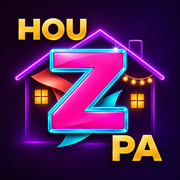
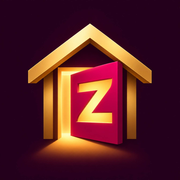
App-style redesign: onyx black + gold, bottom tab bar, big party cards
- Golden house + Z door app icon
- Top bar with logo and SOS, bottom tab bar with gold + button
- New home: big headline, filter chips, 'Is hafte' carousel, image-style cards
- New Profile tab (verification badges, sound on/off, logout)
- Create / My parties / Admin screens use the same app shell

Claude-Session: https://claude.ai/code/session_01XA95pbegfcq9xxSR6sn2JZ

diff --git a/index.html b/index.html
@@ -2,14 +2,14 @@
 <html lang="en">
 <head>
 <meta charset="utf-8">
-<meta name="viewport" content="width=device-width, initial-scale=1">
+<meta name="viewport" content="width=device-width, initial-scale=1, viewport-fit=cover">
 <title>HOUZPA · Who's party? Ma houz party.</title>
-<meta name="theme-color" content="#15112B">
+<meta name="theme-color" content="#0A0A0C">
 <link rel="manifest" href="/manifest.json">
 <link rel="icon" type="image/png" href="/icon-192.png">
 <link rel="apple-touch-icon" href="/apple-touch-icon.png">
 <link rel="preconnect" href="https://fonts.googleapis.com">
-<link href="https://fonts.googleapis.com/css2?family=Space+Grotesk:wght@500;700&family=Inter:wght@400;500;600&display=swap" rel="stylesheet">
+<link href="https://fonts.googleapis.com/css2?family=Unbounded:wght@600;800&family=Space+Grotesk:wght@500;700&family=Inter:wght@400;500;600&display=swap" rel="stylesheet">
 <style>
 :root{--bg:#15112B;--card:#1F1A3D;--line:#332C5E;--txt:#F4F1FF;--mut:#B9B2DA;--amber:#FFB547;--pink:#FF4F9A;--cyan:#3DE8FF;--ok:#4ADE80;--warn:#FBBF24}
 *{box-sizing:border-box;margin:0;padding:0}
@@ -113,6 +113,108 @@ textarea{min-height:80px;resize:vertical}
 .confetti{position:fixed;top:-20px;width:9px;height:14px;z-index:55;pointer-events:none;animation:fall linear forwards}
 @keyframes fall{to{transform:translate(var(--dx),110vh) rotate(var(--r))}}
 @media (prefers-reduced-motion:reduce){*,*::before{animation:none!important;transition:none!important}.party{opacity:1}#onair{opacity:1}}
+/* ================= HOUZPA APP LOOK: onyx black + gold + magenta ================= */
+:root{--bg:#0A0A0C;--card:#141418;--card2:#1B1B21;--line:#2A2A31;--txt:#F7F3EA;--mut:#A39E93;
+  --amber:#F2C46D;--gold1:#F8DC9B;--gold2:#C8902E;--pink:#E5195E;--ok:#4ADE80;--warn:#F2C46D}
+body{background:var(--bg)}
+body::before{background:
+  radial-gradient(circle at 15% 10%,rgba(229,25,94,.16),transparent 35%),
+  radial-gradient(circle at 90% 30%,rgba(242,196,109,.12),transparent 38%)}
+.btn{background:linear-gradient(135deg,var(--pink),#FF4D7E);box-shadow:0 6px 20px rgba(229,25,94,.3)}
+.btn.gold,#goParty{background:linear-gradient(135deg,var(--gold1),var(--gold2));color:#1A1206;box-shadow:0 6px 22px rgba(242,196,109,.3)}
+.card{background:linear-gradient(180deg,var(--card2),var(--card));border-color:var(--line);border-radius:20px}
+.card h3{font-family:'Unbounded',sans-serif;font-size:14px;letter-spacing:.3px;color:var(--gold1)}
+input,select,textarea{background:#0F0F13;border-color:var(--line)}
+input:focus,select:focus,textarea:focus{border-color:var(--amber)}
+.pick.on{background:linear-gradient(135deg,var(--gold1),var(--gold2));border-color:transparent;color:#1A1206}
+.okbox{background:rgba(242,196,109,.08);border-color:rgba(242,196,109,.35);color:var(--gold1)}
+.banner{background:rgba(229,25,94,.1);border-color:rgba(229,25,94,.4);color:#FFC2D6;border-radius:14px}
+.logo .h{color:var(--amber)}.logo .p{color:var(--pink)}
+h2{font-family:'Unbounded',sans-serif;font-size:17px}
+
+/* shell */
+.shell{min-height:100vh}
+.topbar{position:sticky;top:0;z-index:20;display:flex;align-items:center;justify-content:space-between;
+  padding:calc(10px + env(safe-area-inset-top)) 16px 10px;background:rgba(10,10,12,.78);backdrop-filter:blur(14px);border-bottom:1px solid rgba(255,255,255,.05);max-width:520px;margin:0 auto}
+.brand{display:flex;align-items:center;gap:9px}
+.brand img{width:34px;height:34px;border-radius:10px;box-shadow:0 0 14px rgba(242,196,109,.35)}
+.brand .word{font-family:'Unbounded',sans-serif;font-size:18px;letter-spacing:.5px}
+.brand .h{color:var(--amber)}.brand .z{color:#fff}.brand .p{color:var(--pink)}
+.sos-pill{background:#E11D48;color:#fff;font:800 12px 'Unbounded',sans-serif;letter-spacing:1px;text-decoration:none;border-radius:99px;padding:8px 13px;box-shadow:0 0 0 3px rgba(225,29,72,.2)}
+main.page{max-width:520px;padding:6px 16px calc(110px + env(safe-area-inset-bottom));min-height:auto}
+.tabbar{position:fixed;left:50%;transform:translateX(-50%);bottom:0;z-index:30;width:100%;max-width:520px;display:grid;grid-template-columns:repeat(5,1fr);align-items:end;
+  padding:8px 6px calc(10px + env(safe-area-inset-bottom));background:rgba(14,14,17,.92);backdrop-filter:blur(16px);border-top:1px solid rgba(255,255,255,.06)}
+.tab{background:none;border:0;color:#7D786E;display:flex;flex-direction:column;align-items:center;gap:3px;font:600 10.5px Inter,sans-serif;cursor:pointer;padding:4px 0;min-height:48px;justify-content:center}
+.tab svg,.fab svg,.city svg,.me svg{width:24px;height:24px;fill:none;stroke:currentColor;stroke-width:1.8;stroke-linecap:round;stroke-linejoin:round}
+.tab.on{color:var(--amber)}
+.tab.on svg{filter:drop-shadow(0 0 6px rgba(242,196,109,.6))}
+.ghosttab{pointer-events:none}
+.fab{justify-self:center;width:60px;height:60px;margin-top:-30px;border-radius:20px;border:3px solid var(--bg);cursor:pointer;color:#1A1206;
+  background:linear-gradient(135deg,var(--gold1),var(--gold2));box-shadow:0 8px 24px rgba(242,196,109,.45);display:grid;place-items:center;transition:transform .15s}
+.fab svg{width:28px;height:28px;stroke-width:2.6}
+.fab:active{transform:scale(.9) rotate(90deg)}
+.fab.locked{filter:grayscale(.6) brightness(.7)}
+#toast{position:fixed;left:50%;bottom:110px;transform:translate(-50%,20px);background:#F7F3EA;color:#111;padding:11px 16px;border-radius:14px;font:600 13px Inter,sans-serif;opacity:0;transition:.3s;z-index:70;width:max-content;max-width:90vw;text-align:center;pointer-events:none}
+#toast.show{opacity:1;transform:translate(-50%,0)}
+
+/* home */
+.hero{padding:14px 2px 6px}
+.eyebrow{color:var(--mut);font-size:14px}
+.hero h1{font-family:'Unbounded',sans-serif;font-weight:800;font-size:32px;line-height:1.08;margin:6px 0 12px;letter-spacing:-.5px}
+.gold{background:linear-gradient(135deg,var(--gold1),var(--gold2));-webkit-background-clip:text;background-clip:text;color:transparent}
+.city{display:inline-flex;align-items:center;gap:6px;background:var(--card2);border:1px solid var(--line);border-radius:99px;padding:7px 13px 7px 9px;font-size:13px;font-weight:600;margin-bottom:12px}
+.city svg{width:16px;height:16px;color:var(--pink)}
+.chiprow{display:flex;gap:8px;overflow-x:auto;padding:4px 2px 12px;margin:0 -16px;padding-left:16px;scrollbar-width:none}
+.chiprow::-webkit-scrollbar{display:none}
+.fchip{flex:none;background:var(--card2);border:1px solid var(--line);color:var(--txt);border-radius:99px;padding:9px 15px;font:600 13px Inter,sans-serif;cursor:pointer}
+.fchip.on{background:var(--txt);color:#0A0A0C;border-color:var(--txt)}
+.sec{display:flex;align-items:center;gap:8px;margin:14px 0 10px}
+.count{font:700 11px Inter,sans-serif;background:var(--card2);border:1px solid var(--line);color:var(--mut);border-radius:99px;padding:2px 8px}
+.carousel{display:flex;gap:12px;overflow-x:auto;margin:0 -16px;padding:0 16px 6px;scroll-snap-type:x mandatory;scrollbar-width:none}
+.carousel::-webkit-scrollbar{display:none}
+.pcard{background:var(--card);border:1px solid var(--line);border-radius:22px;overflow:hidden;margin-bottom:14px;opacity:0;animation:rise .45s ease-out forwards;transition:transform .15s}
+.pcard:active{transform:scale(.98)}
+.pcard.big{flex:none;width:80%;scroll-snap-align:start;margin-bottom:0}
+.pcover{position:relative;height:190px;display:flex;align-items:flex-end}
+.pcard.big .pcover{height:250px}
+.emo{position:absolute;right:18px;top:40%;transform:translateY(-50%);font-size:64px;filter:drop-shadow(0 6px 18px rgba(0,0,0,.5))}
+.shade{position:absolute;inset:0;background:linear-gradient(180deg,transparent 35%,rgba(5,5,7,.92))}
+.datebox{position:absolute;left:12px;top:12px;z-index:2;background:rgba(10,10,12,.7);backdrop-filter:blur(8px);border:1px solid rgba(242,196,109,.4);border-radius:12px;padding:5px 9px;text-align:center;line-height:1}
+.datebox b{display:block;font:800 18px 'Unbounded',sans-serif;color:var(--gold1)}
+.datebox span{font:700 9.5px Inter,sans-serif;letter-spacing:1px;color:var(--mut)}
+.hot{position:absolute;right:12px;top:12px;z-index:2;background:var(--pink);color:#fff;font:700 11px Inter,sans-serif;border-radius:99px;padding:5px 10px}
+.ptitle{position:relative;z-index:2;padding:14px}
+.ptitle h3{font:800 17px/1.2 'Unbounded',sans-serif;letter-spacing:-.2px}
+.ptitle p{color:#D9D3C7;font-size:13px;margin-top:4px}
+.pfoot{display:flex;justify-content:space-between;align-items:center;gap:8px;padding:11px 14px;font-size:13px;color:var(--mut)}
+.pfoot em{font-style:normal}.alc{color:var(--amber)}
+.from{color:var(--txt)}.from b{font:800 16px 'Unbounded',sans-serif;color:var(--gold1)}
+.skel{height:200px;border-radius:22px;margin-bottom:14px;background:linear-gradient(90deg,var(--card) 25%,var(--card2) 50%,var(--card) 75%);background-size:200% 100%;animation:sk 1.2s linear infinite}
+@keyframes sk{to{background-position:-200% 0}}
+.emptybox{text-align:center;background:linear-gradient(180deg,var(--card2),var(--card));border:1px dashed rgba(242,196,109,.35);border-radius:22px;padding:30px 20px;display:flex;flex-direction:column;gap:10px;align-items:center;margin-top:6px}
+.emptybox .big{font-size:56px;animation:zbeat 1.6s ease-in-out infinite}
+.emptybox h3{font:800 16px 'Unbounded',sans-serif}
+
+/* old list cards (Meri parties) */
+.party{background:var(--card);border-color:var(--line);border-radius:20px}
+.st-published{background:rgba(74,222,128,.14);color:#BBF7D0}
+.st-pending_review{background:rgba(242,196,109,.15);color:var(--gold1)}
+
+/* profile */
+.me{text-align:center;padding:22px 0 10px;display:flex;flex-direction:column;align-items:center;gap:6px}
+.avatar{width:86px;height:86px;border-radius:28px;display:grid;place-items:center;font:800 30px 'Unbounded',sans-serif;color:#1A1206;background:linear-gradient(135deg,var(--gold1),var(--gold2));box-shadow:0 10px 30px rgba(242,196,109,.35);margin-bottom:6px}
+.me h1{font:800 22px 'Unbounded',sans-serif}
+.me .small svg{width:14px;height:14px;vertical-align:-2px}
+.badges{display:flex;gap:6px;flex-wrap:wrap;justify-content:center;margin-top:6px}
+.badge{font:700 11.5px Inter,sans-serif;border-radius:99px;padding:5px 11px;background:var(--card2);border:1px solid var(--line)}
+.badge.ok{color:#BBF7D0;border-color:rgba(74,222,128,.4)}.badge.warn{color:#FFC2D6;border-color:rgba(229,25,94,.4)}.badge.gold{color:var(--gold1);border-color:rgba(242,196,109,.5)}
+.list{background:var(--card);border:1px solid var(--line);border-radius:20px;overflow:hidden;margin:14px 0}
+.li{width:100%;display:flex;justify-content:space-between;align-items:center;background:none;border:0;border-bottom:1px solid var(--line);color:var(--txt);font:500 15px Inter,sans-serif;padding:16px;cursor:pointer;text-decoration:none;text-align:left}
+.li:last-child{border:0}.li.danger{color:#FF8A8A}
+.center-t{text-align:center}
+.pick{background:#0F0F13;border-color:var(--line)}
+.carousel{scroll-padding-left:16px}
+.carousel::after{content:"";flex:0 0 4px}
 </style>
 </head>
 <body>
@@ -135,7 +237,6 @@ textarea{min-height:80px;resize:vertical}
 <div id="flash"></div>
 
 <div id="app"><main class="center"><div class="logo"><span class="h">HOU</span><span class="z">Z</span><span class="p">PA</span></div><p class="tag">Loading…</p></main></div>
-<a class="sos" href="tel:112" aria-label="Emergency SOS, call 112">SOS</a>
 
 <script>
 // ===== PARTY MODE: original stadium-style intro, made in code (no copyrighted music) =====
@@ -410,54 +511,154 @@ function viewProfile() {
   };
 }
 
-// ---------- 3. HOME FEED ----------
+// ---------- APP SHELL: top bar + neeche tab bar (asli app jaisa) ----------
+const ICON = {
+  home: '<svg viewBox="0 0 24 24"><path d="M3 11.5 12 4l9 7.5"/><path d="M5.5 10v9.5h13V10"/><path d="M10 19.5v-5h4v5"/></svg>',
+  ticket: '<svg viewBox="0 0 24 24"><path d="M3 8.5V6h18v2.5a2.5 2.5 0 0 0 0 5V18H3v-4.5a2.5 2.5 0 0 0 0-5Z"/><path d="M14 6v12" stroke-dasharray="2 2"/></svg>',
+  plus: '<svg viewBox="0 0 24 24"><path d="M12 5v14M5 12h14"/></svg>',
+  shield: '<svg viewBox="0 0 24 24"><path d="M12 3 4.5 6v5.5c0 4.5 3.2 8 7.5 9.5 4.3-1.5 7.5-5 7.5-9.5V6Z"/><path d="m9 12 2 2 4-4"/></svg>',
+  user: '<svg viewBox="0 0 24 24"><circle cx="12" cy="8.5" r="3.8"/><path d="M4.5 20c1.2-3.6 4.1-5.5 7.5-5.5s6.3 1.9 7.5 5.5"/></svg>',
+  pin: '<svg viewBox="0 0 24 24"><path d="M12 21s-6.5-6.2-6.5-11a6.5 6.5 0 0 1 13 0c0 4.8-6.5 11-6.5 11Z"/><circle cx="12" cy="10" r="2.3"/></svg>'
+};
+const brand = () => `<div class="brand"><img src="/icon-192.png" alt=""><span class="word"><b class="h">HOU</b><b class="z">Z</b><b class="p">PA</b></span></div>`;
+
+function frame(tab, profile, inner) {
+  const t = (id, icon, label) => `<button class="tab ${tab === id ? 'on' : ''}" data-tab="${id}" type="button">${ICON[icon]}<span>${label}</span></button>`;
+  return `<div class="shell">
+    <div class="topbar">${brand()}<a class="sos-pill" href="tel:112" aria-label="Emergency SOS, call 112">SOS</a></div>
+    <main class="page">${inner}</main>
+    <nav class="tabbar" aria-label="App">
+      ${t('home', 'home', 'Home')}
+      ${t('mine', 'ticket', 'Meri parties')}
+      <button class="fab ${profile.is_verified ? '' : 'locked'}" data-tab="new" type="button" aria-label="Party banao">${ICON.plus}</button>
+      ${profile.is_admin ? t('admin', 'shield', 'Admin') : '<span class="tab ghosttab"></span>'}
+      ${t('me', 'user', 'Profile')}
+    </nav>
+  </div>`;
+}
+function bindNav(profile) {
+  app.querySelectorAll('[data-tab]').forEach(b => b.onclick = () => {
+    const go = b.dataset.tab;
+    if (navigator.vibrate) navigator.vibrate(8);
+    if (go === 'home') viewHome(profile);
+    else if (go === 'mine') viewMine(profile);
+    else if (go === 'admin') viewAdmin(profile);
+    else if (go === 'me') viewMe(profile);
+    else if (go === 'new') {
+      if (profile.is_verified) viewCreate(profile);
+      else toast('Party host karne ke liye pehle ID verification zaroori hai 🔒');
+    }
+  });
+}
+function toast(t) {
+  let el = document.getElementById('toast');
+  if (!el) { el = document.createElement('div'); el.id = 'toast'; document.body.appendChild(el); }
+  el.textContent = t; el.classList.add('show');
+  clearTimeout(el._t); el._t = setTimeout(() => el.classList.remove('show'), 2600);
+}
+
+// Har venue ka apna rang aur emoji (jab tak host photo upload nahi karta)
+const COVER = {
+  Rooftop: ['#2B1055', '#E5195E', '🌃'], Apartment: ['#1B1B2F', '#F2C46D', '🏠'], Villa: ['#0F2027', '#2C5364', '🏡'],
+  Farmhouse: ['#3A1C00', '#E8862A', '🔥'], Garden: ['#0B3D2E', '#7BD389', '🌿'], 'Pool property': ['#003B5C', '#2EC4F1', '🏊'],
+  'Private lounge': ['#1A0B2E', '#B4458F', '🍸']
+};
+const cover = p => { const [a, b, e] = COVER[p.venue_type] || ['#1A1A1F', '#F2C46D', '🎉']; return { bg: `radial-gradient(circle at 80% 15%,${b}cc,transparent 55%),linear-gradient(160deg,${a},#0A0A0C)`, e }; };
+const dayBox = d => { const x = new Date(d); return `<div class="datebox"><b>${x.getDate()}</b><span>${x.toLocaleString('en-IN', { month: 'short' }).toUpperCase()}</span></div>`; };
+
+// ---------- 3. HOME ----------
 async function viewHome(profile) {
-  const city = profile.city || 'Lucknow';
-  app.innerHTML = `<main>
-    <header>${logo('sm')}<div class="hbtns">
-      <button class="icon-btn" id="snd" type="button" aria-label="Party sound">🎉</button>
-      <button class="btn ghost" id="out" type="button">Logout</button></div></header>
-    ${profile.is_verified ? '' : '<div class="banner">Aapka ID verification baaki hai. Tab tak parties dekh sakte ho, pass nahi le sakte aur party host nahi kar sakte.</div>'}
-    <div class="nav">
-      ${profile.is_verified ? '<button class="btn" id="new" type="button">＋ Party banao</button>' : ''}
-      <button class="btn ghost" id="mine" type="button">Meri parties</button>
-      ${profile.is_admin ? '<button class="btn ghost" id="adm" type="button">Admin</button>' : ''}
-    </div>
-    <p class="small">Hi ${esc(profile.full_name.split(' ')[0])} 👋</p>
-    <h2>${esc(city)} mein aane wali parties</h2>
-    <div id="feed"><p class="empty">Parties dhoondh rahe hain…</p></div>
-  </main>`;
-  document.getElementById('out').onclick = async () => { await sb.auth.signOut(); };
-  document.getElementById('snd').onclick = () => { if (!window.houzpaMuted()) window.houzpaPartySound(); };
-  const on = (id, fn) => { const el = document.getElementById(id); if (el) el.onclick = fn; };
-  on('new', () => viewCreate(profile));
-  on('mine', () => viewMine(profile));
-  on('adm', () => viewAdmin(profile));
+  const city = profile.city || 'Lucknow', first = esc(profile.full_name.split(' ')[0]);
+  const hour = new Date().getHours(), hello = hour < 12 ? 'Good morning' : hour < 17 ? 'Hey' : 'Good evening';
+  const FILTERS = ['Sab', 'Aaj raat', 'Weekend', 'Rooftop', 'Pool', 'Live music', '₹800 se kam'];
+  app.innerHTML = frame('home', profile, `
+    <section class="hero">
+      <p class="eyebrow">${hello}, ${first} 👋</p>
+      <h1>Aaj raat<br><span class="gold">kahan party?</span></h1>
+      <div class="city">${ICON.pin}<span>${esc(city)}</span></div>
+    </section>
+    ${profile.is_verified ? '' : '<div class="banner">🔒 ID verification baaki hai. Tab tak parties dekh sakte ho, pass nahi le sakte aur host nahi kar sakte.</div>'}
+    <div class="chiprow" id="filters">${FILTERS.map((f, i) => `<button class="fchip ${i ? '' : 'on'}" type="button">${f}</button>`).join('')}</div>
+    <div id="feed"><div class="skel"></div><div class="skel"></div></div>`);
+  bindNav(profile);
 
   const { data, error } = await sb.from('parties')
-    .select('id,name,area,city,venue_type,starts_at,alcohol,cover_url,ticket_tiers(price_inr)')
+    .select('id,name,area,city,venue_type,starts_at,alcohol,cover_url,has_pool,music,safe_capacity,ticket_tiers(price_inr,quantity,sold)')
     .eq('city', city).eq('status', 'published').eq('visibility', 'public')
     .gte('starts_at', new Date().toISOString())
     .order('starts_at');
   const feed = document.getElementById('feed');
   if (error) { feed.innerHTML = `<p class="empty err">Error: ${esc(error.message)}</p>`; return; }
-  if (!data.length) { feed.innerHTML = `<p class="empty">Abhi ${esc(city)} mein koi party listed nahi hai.<br>Jald aa rahi hain! 🎉</p>`; return; }
 
-  feed.innerHTML = data.map((p, i) => {
-    const prices = (p.ticket_tiers || []).map(t => t.price_inr);
-    const from = prices.length ? '₹' + Math.min(...prices) : '';
-    const when = new Date(p.starts_at).toLocaleString('en-IN', { weekday: 'short', day: 'numeric', month: 'short', hour: 'numeric', minute: '2-digit' });
-    const alc = p.alcohol && p.alcohol !== 'No alcohol';
-    return `<article class="party" style="animation-delay:${i * 90}ms">
-      <div class="cover">${p.cover_url ? `<img src="${esc(p.cover_url)}" alt="">` : ''}</div>
-      <div class="body">
-        <h3>${esc(p.name)}</h3>
-        <p class="small">${esc(p.area)} · ${esc(p.venue_type)}</p>
-        <div class="row"><span class="small">${esc(when)}</span><span class="price">${from ? 'From ' + from : ''}</span></div>
-        <div class="row">${alc ? '<span class="chip alc">Licensed · 21+</span>' : '<span class="chip">No alcohol</span>'}</div>
+  const draw = list => {
+    if (!list.length) {
+      feed.innerHTML = `<div class="emptybox"><div class="big">🪩</div><h3>${data.length ? 'Is filter mein koi party nahi' : `${esc(city)} mein abhi koi party nahi`}</h3>
+        <p class="small">${profile.is_verified ? 'Pehli party aap host karo aur shehar ko jagao!' : 'Jald aa rahi hain. Notification ke liye bane raho!'}</p>
+        ${profile.is_verified ? '<button class="btn gold" data-tab="new" type="button">＋ Party host karo</button>' : ''}</div>`;
+      bindNav(profile); return;
+    }
+    const card = (p, i, big) => {
+      const prices = (p.ticket_tiers || []).map(t => t.price_inr), left = (p.ticket_tiers || []).reduce((a, t) => a + t.quantity - t.sold, 0);
+      const c = cover(p), alc = p.alcohol && p.alcohol !== 'No alcohol';
+      const time = new Date(p.starts_at).toLocaleString('en-IN', { weekday: 'short', hour: 'numeric', minute: '2-digit' });
+      return `<article class="pcard ${big ? 'big' : ''}" style="animation-delay:${i * 80}ms">
+        <div class="pcover" style="background:${p.cover_url ? `url('${esc(p.cover_url)}') center/cover` : c.bg}">
+          ${p.cover_url ? '' : `<span class="emo">${c.e}</span>`}
+          ${dayBox(p.starts_at)}
+          ${left > 0 && left <= 10 ? `<span class="hot">🔥 ${left} passes bache</span>` : ''}
+          <div class="shade"></div>
+          <div class="ptitle"><h3>${esc(p.name)}</h3><p>${esc(p.area)} · ${esc(p.venue_type)}</p></div>
+        </div>
+        <div class="pfoot"><span>${esc(time)} · ${alc ? '<em class="alc">Licensed 21+</em>' : 'No alcohol'}</span>
+          <span class="from">${prices.length ? 'From <b>₹' + Math.min(...prices) + '</b>' : ''}</span></div>
+      </article>`;
+    };
+    const soon = list.filter(p => new Date(p.starts_at) - new Date() < 7 * 864e5);
+    feed.innerHTML = (soon.length ? `<h2 class="sec">🔥 Is hafte</h2><div class="carousel">${soon.map((p, i) => card(p, i, true)).join('')}</div>` : '')
+      + `<h2 class="sec">Sab parties <span class="count">${list.length}</span></h2>${list.map((p, i) => card(p, i)).join('')}`;
+  };
+  const test = {
+    'Sab': () => true,
+    'Aaj raat': p => new Date(p.starts_at).toDateString() === new Date().toDateString(),
+    'Weekend': p => [0, 5, 6].includes(new Date(p.starts_at).getDay()),
+    'Rooftop': p => p.venue_type === 'Rooftop',
+    'Pool': p => p.has_pool,
+    'Live music': p => (p.music || []).includes('Live music'),
+    '₹800 se kam': p => (p.ticket_tiers || []).some(t => t.price_inr < 800)
+  };
+  document.getElementById('filters').onclick = e => {
+    const b = e.target.closest('.fchip'); if (!b) return;
+    document.querySelectorAll('.fchip').forEach(x => x.classList.toggle('on', x === b));
+    draw(data.filter(test[b.textContent]));
+  };
+  draw(data);
+}
+
+// ---------- PROFILE TAB ----------
+function viewMe(profile) {
+  const initials = profile.full_name.split(' ').map(w => w[0]).slice(0, 2).join('').toUpperCase();
+  const muted = window.houzpaMuted && window.houzpaMuted();
+  app.innerHTML = frame('me', profile, `
+    <section class="me">
+      <div class="avatar">${esc(initials)}</div>
+      <h1>${esc(profile.full_name)}</h1>
+      <p class="small">${ICON.pin} ${esc(profile.city || '')}</p>
+      <div class="badges">
+        ${profile.is_verified ? '<span class="badge ok">✓ ID verified</span>' : '<span class="badge warn">ID verification baaki</span>'}
+        ${profile.is_host ? '<span class="badge">Host</span>' : ''}${profile.is_admin ? '<span class="badge gold">Admin</span>' : ''}
       </div>
-    </article>`;
-  }).join('');
+    </section>
+    <div class="list">
+      <button class="li" id="snd" type="button"><span>🔊 Party sound sunao</span><span>›</span></button>
+      <button class="li" id="mute" type="button"><span>${muted ? '🔇 Intro sound band hai' : '🔈 Intro sound on hai'}</span><span class="small">${muted ? 'On karo' : 'Band karo'}</span></button>
+      <a class="li" href="tel:112"><span>🆘 Emergency: 112</span><span>›</span></a>
+      <button class="li danger" id="out" type="button"><span>Logout</span><span>›</span></button>
+    </div>
+    <p class="small center-t">HOUZPA · Who's party? Ma houz party.</p>`);
+  bindNav(profile);
+  document.getElementById('out').onclick = async () => { await sb.auth.signOut(); };
+  document.getElementById('snd').onclick = () => window.houzpaPartySound && window.houzpaPartySound();
+  document.getElementById('mute').onclick = () => { window.houzpaSetMuted(!muted); viewMe(profile); };
 }
 
 // ---------- 4. PARTY BANAO (host) ----------
@@ -488,8 +689,7 @@ function viewCreate(profile) {
     `<button type="button" class="pick ${(single ? s[key] === o : s[key].includes(o)) ? 'on' : ''}" data-v="${esc(o)}">${esc(o)}</button>`).join('')}</div>`;
   const num = (k, lbl) => `<div><label for="c_${k}">${lbl}</label><input id="c_${k}" type="number" min="0" value="${s.cap[k]}" inputmode="numeric"></div>`;
 
-  app.innerHTML = `<main>
-    <header>${logo('sm')}<button class="btn ghost" id="back" type="button">← Wapas</button></header>
+  app.innerHTML = frame('new', profile, `
     <h2>Party banao 🎉</h2>
     <form id="f" style="display:flex;flex-direction:column;gap:14px">
       <section class="card">
@@ -557,10 +757,10 @@ function viewCreate(profile) {
         <p class="msg" id="msg"></p>
       </section>
     </form>
-  </main>`;
+  `);
+  bindNav(profile);
 
   const $ = id => document.getElementById(id);
-  $('back').onclick = () => viewHome(profile);
 
   // chips
   app.querySelectorAll('.chips[data-key]').forEach(box => {
@@ -659,12 +859,11 @@ const STATUS = { draft: 'Draft', pending_review: 'Approval baaki', published: 'L
 const when = d => new Date(d).toLocaleString('en-IN', { weekday: 'short', day: 'numeric', month: 'short', hour: 'numeric', minute: '2-digit' });
 
 async function viewMine(profile, note = '') {
-  app.innerHTML = `<main>
-    <header>${logo('sm')}<button class="btn ghost" id="back" type="button">← Wapas</button></header>
+  app.innerHTML = frame('mine', profile, `
     ${note ? `<div class="okbox" style="margin-bottom:14px">${esc(note)}</div>` : ''}
     <h2>Meri parties</h2><div id="list"><p class="empty">Load ho raha hai…</p></div>
-  </main>`;
-  document.getElementById('back').onclick = () => viewHome(profile);
+  `);
+  bindNav(profile);
   const { data, error } = await sb.from('parties')
     .select('id,name,area,city,starts_at,status,safe_capacity,ticket_tiers(name,price_inr,quantity,sold)')
     .eq('host_id', session.user.id).order('starts_at', { ascending: false });
@@ -684,11 +883,10 @@ async function viewMine(profile, note = '') {
 // ---------- 6. ADMIN: parties approve karo ----------
 async function viewAdmin(profile) {
   if (!profile.is_admin) return viewHome(profile);
-  app.innerHTML = `<main>
-    <header>${logo('sm')}<button class="btn ghost" id="back" type="button">← Wapas</button></header>
+  app.innerHTML = frame('admin', profile, `
     <h2>Admin · Approval ke liye parties</h2><p class="msg" id="msg"></p><div id="list"><p class="empty">Load ho raha hai…</p></div>
-  </main>`;
-  document.getElementById('back').onclick = () => viewHome(profile);
+  `);
+  bindNav(profile);
   const { data, error } = await sb.from('parties')
     .select('id,name,description,area,city,venue_type,starts_at,ends_at,min_age,safe_capacity,music,food,house_rules,visibility,host:profiles!parties_host_id_fkey(full_name,is_verified),ticket_tiers(name,price_inr,quantity),party_private(exact_address,host_phone)')
     .eq('status', 'pending_review').order('starts_at');
